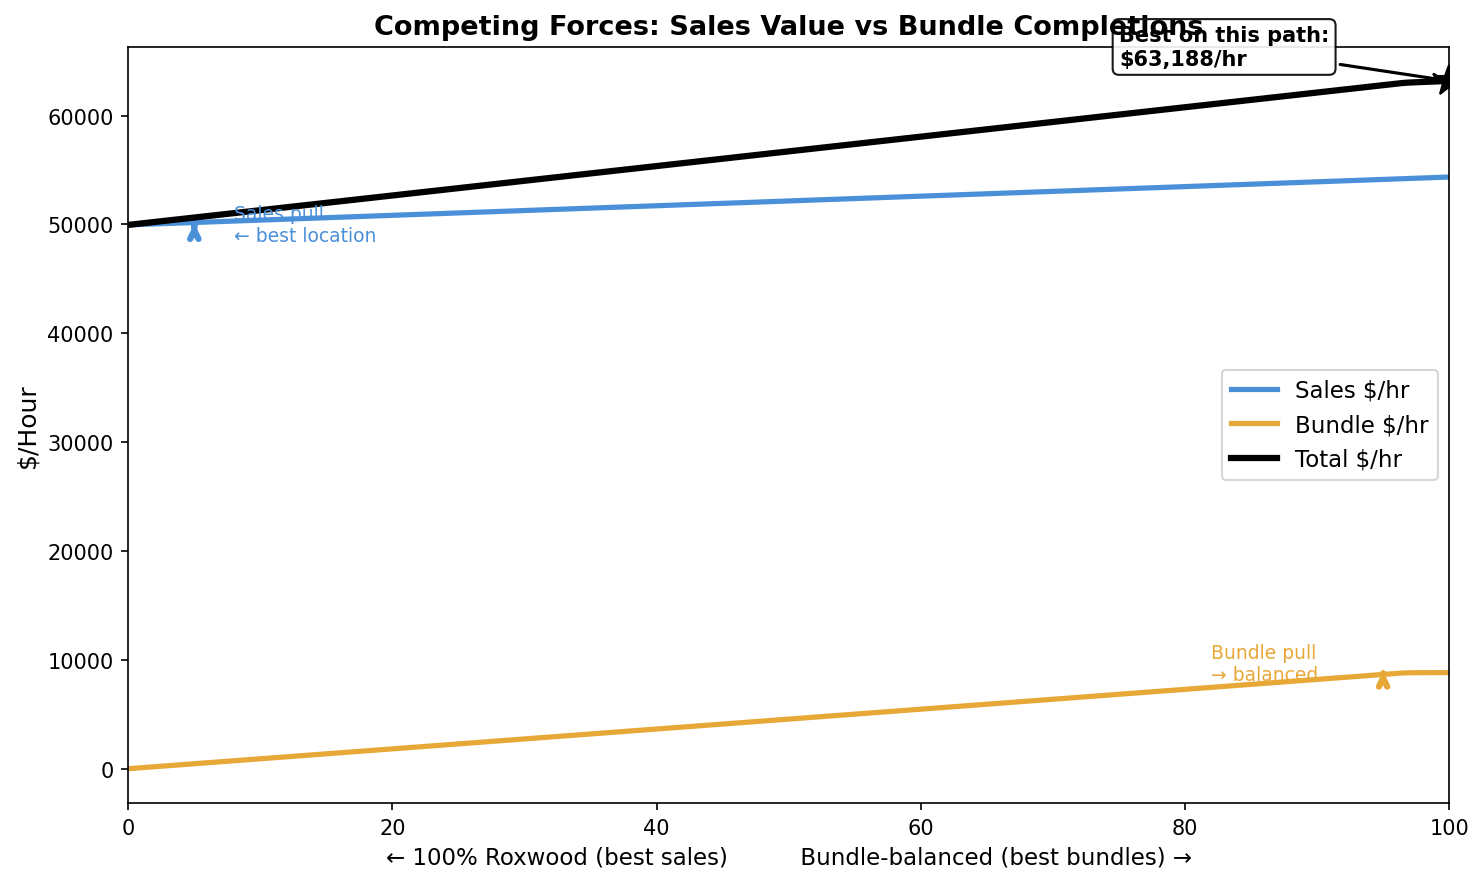
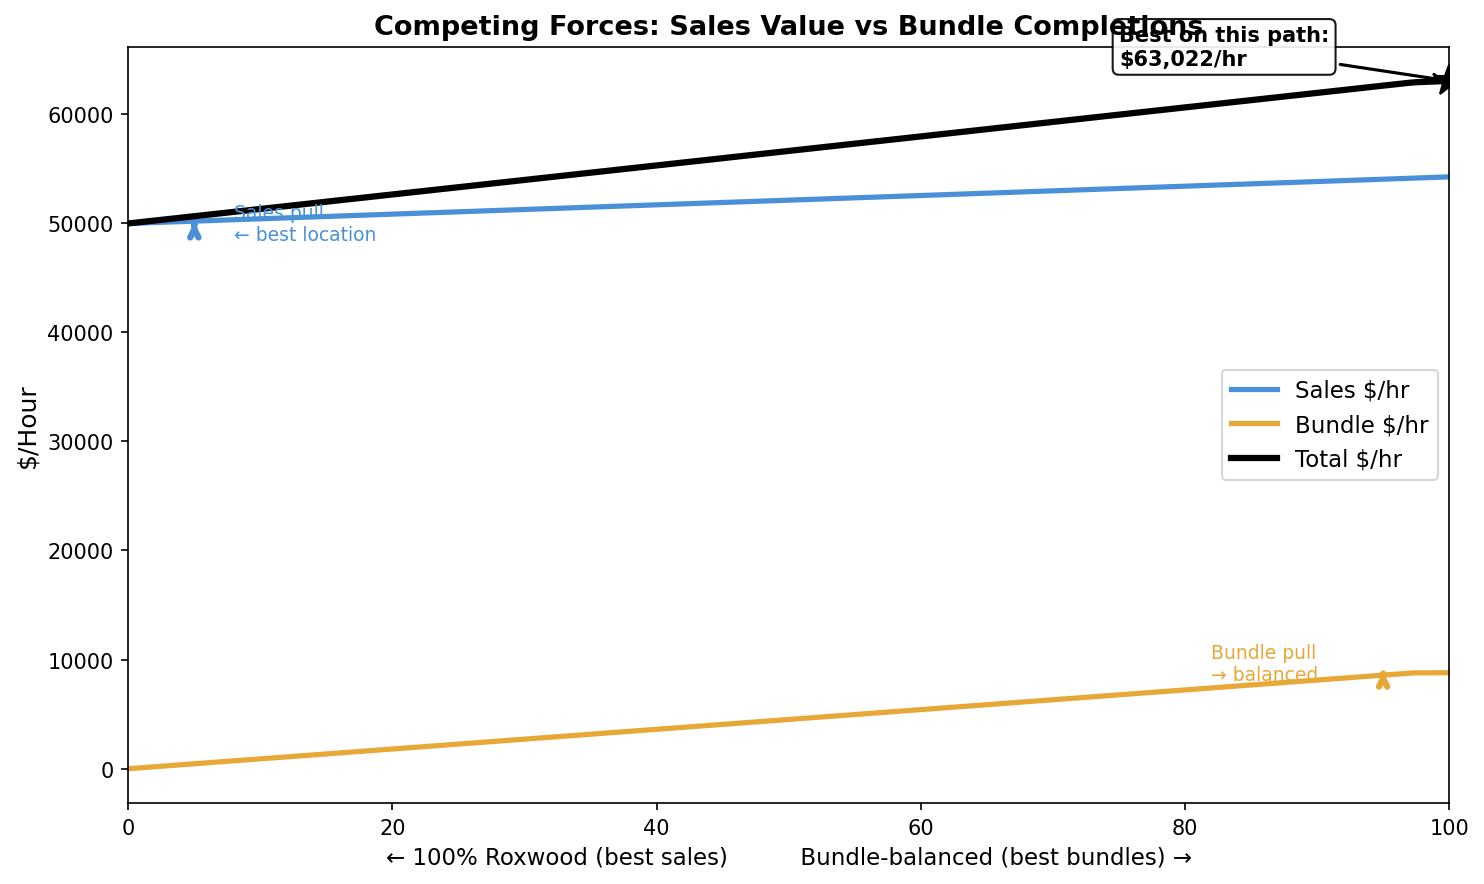
time log

diff --git a/sales/update_time.py b/sales/update_time.py
@@ -1,0 +1,245 @@
+"""Parse time-log.md and generate time.md with per-zone and global timing stats."""
+
+import re
+from dataclasses import dataclass
+from datetime import datetime
+from pathlib import Path
+
+from constants import SALES_DIR
+from markdown import format_markdown_table
+
+TIME_LOG_PATH = SALES_DIR / "time-log.md"
+TIME_MD_PATH = SALES_DIR / "time.md"
+
+DATE_FORMAT = "%d %b %Y @ %I:%M:%S%p"
+
+
+@dataclass
+class Session:
+    zone: str
+    rod_level: int
+    start: datetime
+    finish: datetime
+    fish_before: int
+    fish_after: int
+    electronics_before: int
+    electronics_after: int
+
+    @property
+    def duration_seconds(self) -> float:
+        return (self.finish - self.start).total_seconds()
+
+    @property
+    def fish_caught(self) -> int:
+        return self.fish_after - self.fish_before
+
+    @property
+    def electronics_gained(self) -> int:
+        return self.electronics_after - self.electronics_before
+
+    @property
+    def seconds_per_fish(self) -> float:
+        if self.fish_caught == 0:
+            return 0.0
+        return self.duration_seconds / self.fish_caught
+
+    @property
+    def seconds_per_electronic(self) -> float:
+        if self.electronics_gained == 0:
+            return 0.0
+        return self.duration_seconds / self.electronics_gained
+
+
+def parse_time_log(path: Path) -> list[Session]:
+    """Parse time-log.md into a list of Session objects."""
+    text = path.read_text(encoding="utf-8")
+    sessions: list[Session] = []
+    current_zone = ""
+
+    for line in text.splitlines():
+        line = line.strip()
+
+        zone_match = re.match(r"^#\s+(.+)$", line)
+        if zone_match:
+            current_zone = zone_match.group(1).strip()
+            continue
+
+        if line == "---":
+            continue
+
+        if line.startswith("Rod Level:"):
+            rod_level = int(line.split(":")[1].strip())
+            continue
+
+        if line.startswith("Start:"):
+            start = datetime.strptime(line.split(":", 1)[1].strip(), DATE_FORMAT)
+            continue
+
+        if line.startswith("Finish:"):
+            finish = datetime.strptime(line.split(":", 1)[1].strip(), DATE_FORMAT)
+            continue
+
+        if line.startswith("Fish before:"):
+            fish_before = int(line.split(":")[1].strip())
+            continue
+
+        if line.startswith("Electronics before:"):
+            electronics_before = int(line.split(":")[1].strip())
+            continue
+
+        if line.startswith("Fish after:"):
+            fish_after = int(line.split(":")[1].strip())
+            continue
+
+        if line.startswith("Electronics after:"):
+            electronics_after = int(line.split(":")[1].strip())
+            sessions.append(Session(
+                zone=current_zone,
+                rod_level=rod_level,
+                start=start,
+                finish=finish,
+                fish_before=fish_before,
+                fish_after=fish_after,
+                electronics_before=electronics_before,
+                electronics_after=electronics_after,
+            ))
+            continue
+
+    return sessions
+
+
+def format_duration(seconds: float) -> str:
+    """Format seconds as Xm Ys."""
+    minutes = int(seconds) // 60
+    remaining_seconds = int(seconds) % 60
+    return f"{minutes}m {remaining_seconds}s"
+
+
+def build_zone_log_section(zone: str, sessions: list[Session]) -> str:
+    """Build a per-zone log table with cumulative s/fish progression."""
+    rows: list[tuple[str, ...]] = []
+    for session in sessions:
+        rows.append((
+            session.finish.strftime("%d %b %Y %I:%M%p"),
+            str(session.rod_level),
+            str(session.fish_caught),
+            format_duration(session.duration_seconds),
+            f"{session.seconds_per_fish:.1f}s" if session.fish_caught else "-",
+        ))
+
+    table = format_markdown_table(
+        headers=("Finished", "Rod", "Fish", "Duration", "s/fish"),
+        rows=rows,
+        right_aligned_columns={1, 2, 3, 4},
+    )
+    return f"### {zone}\n\n{table}"
+
+
+def build_zone_average_section(
+    zone: str,
+    sessions: list[Session],
+) -> list[tuple[str, ...]]:
+    """Build rows for the per-zone per-rod-level average table."""
+    by_rod_level: dict[int, list[Session]] = {}
+    for session in sessions:
+        by_rod_level.setdefault(session.rod_level, []).append(session)
+
+    rows: list[tuple[str, ...]] = []
+    for rod_level in sorted(by_rod_level):
+        level_sessions = by_rod_level[rod_level]
+        total_fish = sum(session.fish_caught for session in level_sessions)
+        total_seconds = sum(session.duration_seconds for session in level_sessions)
+        average_seconds_per_fish = total_seconds / total_fish if total_fish else 0
+        rows.append((
+            zone,
+            str(rod_level),
+            str(len(level_sessions)),
+            str(total_fish),
+            f"{average_seconds_per_fish:.1f}s" if total_fish else "-",
+        ))
+    return rows
+
+
+def build_electronics_section(sessions: list[Session]) -> str:
+    """Build global electronics log and average."""
+    log_rows: list[tuple[str, ...]] = []
+    for session in sessions:
+        electronics_gained = session.electronics_gained
+        log_rows.append((
+            session.zone,
+            session.finish.strftime("%d %b %Y %I:%M%p"),
+            str(electronics_gained),
+            format_duration(session.duration_seconds),
+            f"{session.seconds_per_electronic:.1f}s" if electronics_gained else "-",
+        ))
+
+    log_table = format_markdown_table(
+        headers=("Zone", "Finished", "Electronics", "Duration", "s/electronic"),
+        rows=log_rows,
+        right_aligned_columns={2, 3, 4},
+    )
+
+    total_electronics = sum(session.electronics_gained for session in sessions)
+    total_seconds = sum(session.duration_seconds for session in sessions)
+    global_average = total_seconds / total_electronics if total_electronics else 0
+
+    summary = (
+        f"**Global average:** {global_average:.1f}s/electronic"
+        f" ({total_electronics} electronics in {format_duration(total_seconds)})"
+    )
+
+    return f"## Electronics\n\n{log_table}\n\n{summary}"
+
+
+def build_time_md(sessions: list[Session]) -> str:
+    """Build the full time.md content."""
+    sections: list[str] = ["# Fishing Time Stats"]
+
+    # Group by zone preserving first-seen order
+    zone_order: list[str] = []
+    by_zone: dict[str, list[Session]] = {}
+    for session in sessions:
+        if session.zone not in by_zone:
+            zone_order.append(session.zone)
+        by_zone.setdefault(session.zone, []).append(session)
+
+    # Per-zone logs
+    sections.append("## Session Log")
+    for zone in zone_order:
+        sections.append(build_zone_log_section(zone, by_zone[zone]))
+
+    # Average s/fish per zone per rod level
+    sections.append("## Average s/fish by Zone and Rod Level")
+    average_rows: list[tuple[str, ...]] = []
+    for zone in zone_order:
+        average_rows.extend(build_zone_average_section(zone, by_zone[zone]))
+    average_table = format_markdown_table(
+        headers=("Zone", "Rod", "Sessions", "Fish", "Avg s/fish"),
+        rows=average_rows,
+        right_aligned_columns={1, 2, 3, 4},
+    )
+    sections.append(average_table)
+
+    # Electronics (global)
+    sections.append(build_electronics_section(sessions))
+
+    return "\n\n".join(sections) + "\n"
+
+
+def main() -> None:
+    if not TIME_LOG_PATH.exists():
+        print(f"  {TIME_LOG_PATH.name} not found, skipping")
+        return
+
+    sessions = parse_time_log(TIME_LOG_PATH)
+    if not sessions:
+        print("  no sessions found in time-log.md")
+        return
+
+    content = build_time_md(sessions)
+    TIME_MD_PATH.write_text(content, encoding="utf-8")
+    print(f"  time.md updated ({len(sessions)} sessions)")
+
+
+if __name__ == "__main__":
+    main()

diff --git a/sales/update_all.py b/sales/update_all.py
@@ -1,0 +1,34 @@
+"""Run all sales update and visualization scripts.
+
+update_sales already calls visualize_allocation internally for main figures.
+The other visualize_* scripts generate experimental analysis PNGs.
+"""
+
+from update_sales import main as update_sales
+from update_time import main as update_time
+from visualize_percentage_fit import main as visualize_percentage_fit
+from visualize_shared_weights import main as visualize_shared_weights
+from visualize_weights import main as visualize_weights
+
+
+def main() -> None:
+    print("Updating sales (includes allocation figures)...")
+    update_sales()
+
+    print("Updating time stats...")
+    update_time()
+
+    print("Generating percentage fit visualization...")
+    visualize_percentage_fit()
+
+    print("Generating shared weights visualization...")
+    visualize_shared_weights()
+
+    print("Generating weights visualization...")
+    visualize_weights()
+
+    print("Done.")
+
+
+if __name__ == "__main__":
+    main()

diff --git a/sales/visualize_allocation.py b/sales/visualize_allocation.py
@@ -624,6 +624,8 @@ def figure_5_min_envelope(
     sweep_location = locations[0]
     other_locations = locations[1:]
     other_ratios = [optimal.get(loc, 0.01) for loc in other_locations]
+    if sum(other_ratios) == 0:
+        other_ratios = [1.0 / len(other_locations)] * len(other_locations)
     sweep_values, fraction_list = _build_1d_sweep_path(
         sweep_location, other_locations, other_ratios, steps=500,
     )
@@ -777,6 +779,8 @@ def figure_6_objective_decomposition(
     sweep_location = locations[0]
     other_locations = locations[1:]
     other_ratios = [optimal.get(loc, 0.01) for loc in other_locations]
+    if sum(other_ratios) == 0:
+        other_ratios = [1.0 / len(other_locations)] * len(other_locations)
     sweep_values, fraction_list = _build_1d_sweep_path(
         sweep_location, other_locations, other_ratios, steps=500,
     )

diff --git a/sales/constants.py b/sales/constants.py
@@ -162,7 +162,7 @@ SECONDS_WAITING_FOR_BITE: dict[str, int] = {
 SECONDS_WAITING_FOR_BITE_DEFAULT = 100  # for unknown locations
 SECONDS_REELING_IN: dict[str, int] = {
     "Alamo Sea": 15,
-    "Land Act Dam": 22,
+    "Land Act Dam": 115 - SECONDS_WAITING_FOR_BITE["Land Act Dam"],
     "Roxwood": 30,
 }
 SECONDS_REELING_IN_DEFAULT = 30  # for unknown locations

diff --git a/sales/comparison.md b/sales/comparison.md
@@ -2,14 +2,14 @@
 
 Detected tier: 3 (Alamo Sea, Land Act Dam, Roxwood).
 
-Bite wait by location: Alamo Sea 80s, Land Act Dam 90s, Roxwood 100s. Reel-in by location: Alamo Sea 15s, Land Act Dam 22s, Roxwood 30s.
+Bite wait by location: Alamo Sea 80s, Land Act Dam 90s, Roxwood 100s. Reel-in by location: Alamo Sea 15s, Land Act Dam 25s, Roxwood 30s.
 
 ~ = estimated (not yet observed in catch data)
 
 | Location     | Fish Caught | $/Fish observed | $/Fish model | Available Bundles                                     | $/Fish (bundles) | $/Fish total (obs) | $/Fish total (model) | $/Hour (model) |
 |--------------|------------:|----------------:|-------------:|-------------------------------------------------------|-----------------:|-------------------:|---------------------:|---------------:|
 | Alamo Sea    |         420 |          $1,472 |       $1,404 | Gold Multizone #1, Alamo Starter, Low Level Multizone |             $655 |             $2,127 |           **$2,059** |        $78,038 |
-| Land Act Dam |         203 |          $1,670 |       $1,670 | Gold Multizone #1, Low Level Multizone                |             $393 |             $2,063 |           **$2,063** |        $66,312 |
+| Land Act Dam |         203 |          $1,670 |       $1,670 | Gold Multizone #1, Low Level Multizone                |             $393 |             $2,063 |           **$2,063** |        $64,583 |
 | Roxwood      |         172 |          $1,804 |       $1,871 | Gold Multizone #1, Low Level Multizone                |             $205 |             $2,009 |           **$2,077** |        $57,504 |
 
 ## Optimal Allocation
@@ -18,13 +18,13 @@ Optimal time split across locations to maximize total $/hour (considering both s
 
 | Location     | Time % (obs) | $/Fish (obs) | $/Hour (obs) | Time % (model) | $/Fish (model) | $/Hour (model) |
 |--------------|-------------:|-------------:|-------------:|---------------:|---------------:|---------------:|
-| Alamo Sea    |         100% |       $1,472 |      $63,916 |            61% |         $1,404 |        $61,339 |
-| Land Act Dam |           0% |       $1,670 |      $53,685 |            14% |         $1,670 |        $53,685 |
-| Roxwood      |           0% |       $1,804 |      $49,959 |            25% |         $1,871 |        $51,816 |
-| **Combined** |         100% |              |  **$63,916** |           100% |                |    **$62,134** |
+| Alamo Sea    |         100% |       $1,472 |      $63,916 |            62% |         $1,404 |        $61,339 |
+| Land Act Dam |           0% |       $1,670 |      $52,284 |            14% |         $1,670 |        $52,284 |
+| Roxwood      |           0% |       $1,804 |      $49,959 |            24% |         $1,871 |        $51,816 |
+| **Combined** |         100% |              |  **$63,916** |           100% |                |    **$61,881** |
 
 **Observed:** splitting yields **$63,916**/hour vs **$63,916**/hour best solo (+$0/hour, +0.0%).
-**Model:** splitting yields **$62,134**/hour vs **$61,339**/hour best solo (+$795/hour, +1.3%).
+**Model:** splitting yields **$61,881**/hour vs **$61,339**/hour best solo (+$543/hour, +0.9%).
 
 ## Bundle Details
 
@@ -38,8 +38,8 @@ Optimal time split across locations to maximize total $/hour (considering both s
 
 | Bundle              | Fish                             |   Bonus | Avg Fish to Complete | Avg Time | Bonus/Fish | Catch Rates                                                                                                          |
 |---------------------|----------------------------------|--------:|---------------------:|---------:|-----------:|----------------------------------------------------------------------------------------------------------------------|
-| Gold Multizone #1   | Bluefin Tuna, Musky, Dolphinfish | $12,750 |                  201 |  349 min |        $63 | Bluefin Tuna @ Alamo Sea: 3/420 (0.7%) \| Musky @ Land Act Dam: 11/203 (5.4%) \| Dolphinfish @ Roxwood: 4/172 (2.3%) |
-| Low Level Multizone | Scollop, Carp, Grenadier         | $11,000 |                   66 |  131 min |       $167 | Scollop @ Alamo Sea: 47/420 (11.2%) \| Carp @ Land Act Dam: 9/203 (4.4%) \| Grenadier @ Roxwood: 5/172 (2.9%)        |
+| Gold Multizone #1   | Bluefin Tuna, Musky, Dolphinfish | $12,750 |                  201 |  350 min |        $63 | Bluefin Tuna @ Alamo Sea: 3/420 (0.7%) \| Musky @ Land Act Dam: 11/203 (5.4%) \| Dolphinfish @ Roxwood: 4/172 (2.3%) |
+| Low Level Multizone | Scollop, Carp, Grenadier         | $11,000 |                   66 |  132 min |       $167 | Scollop @ Alamo Sea: 47/420 (11.2%) \| Carp @ Land Act Dam: 9/203 (4.4%) \| Grenadier @ Roxwood: 5/172 (2.9%)        |
 
 ## Drop Rate Analysis
 

diff --git a/sales/time.md b/sales/time.md
@@ -1,0 +1,23 @@
+# Fishing Time Stats
+
+## Session Log
+
+### Roxwood
+
+| Finished            | Rod | Fish | Duration | s/fish |
+|---------------------|----:|-----:|---------:|-------:|
+| 05 Apr 2026 03:51PM |   3 |   17 |  32m 49s | 115.8s |
+
+## Average s/fish by Zone and Rod Level
+
+| Zone    | Rod | Sessions | Fish | Avg s/fish |
+|---------|----:|---------:|-----:|-----------:|
+| Roxwood |   3 |        1 |   17 |     115.8s |
+
+## Electronics
+
+| Zone    | Finished            | Electronics | Duration | s/electronic |
+|---------|---------------------|------------:|---------:|-------------:|
+| Roxwood | 05 Apr 2026 03:51PM |          44 |  32m 49s |        44.8s |
+
+**Global average:** 44.8s/electronic (44 electronics in 32m 49s)

diff --git a/sales/time-log.md b/sales/time-log.md
@@ -1,0 +1,9 @@
+# Roxwood
+
+Rod Level: 3
+Start: 5 Apr 2026 @ 3:18:47pm
+Finish: 5 Apr 2026 @ 3:51:36pm
+Fish before: 4
+Electronics before: 15
+Fish after: 21
+Electronics after: 59
